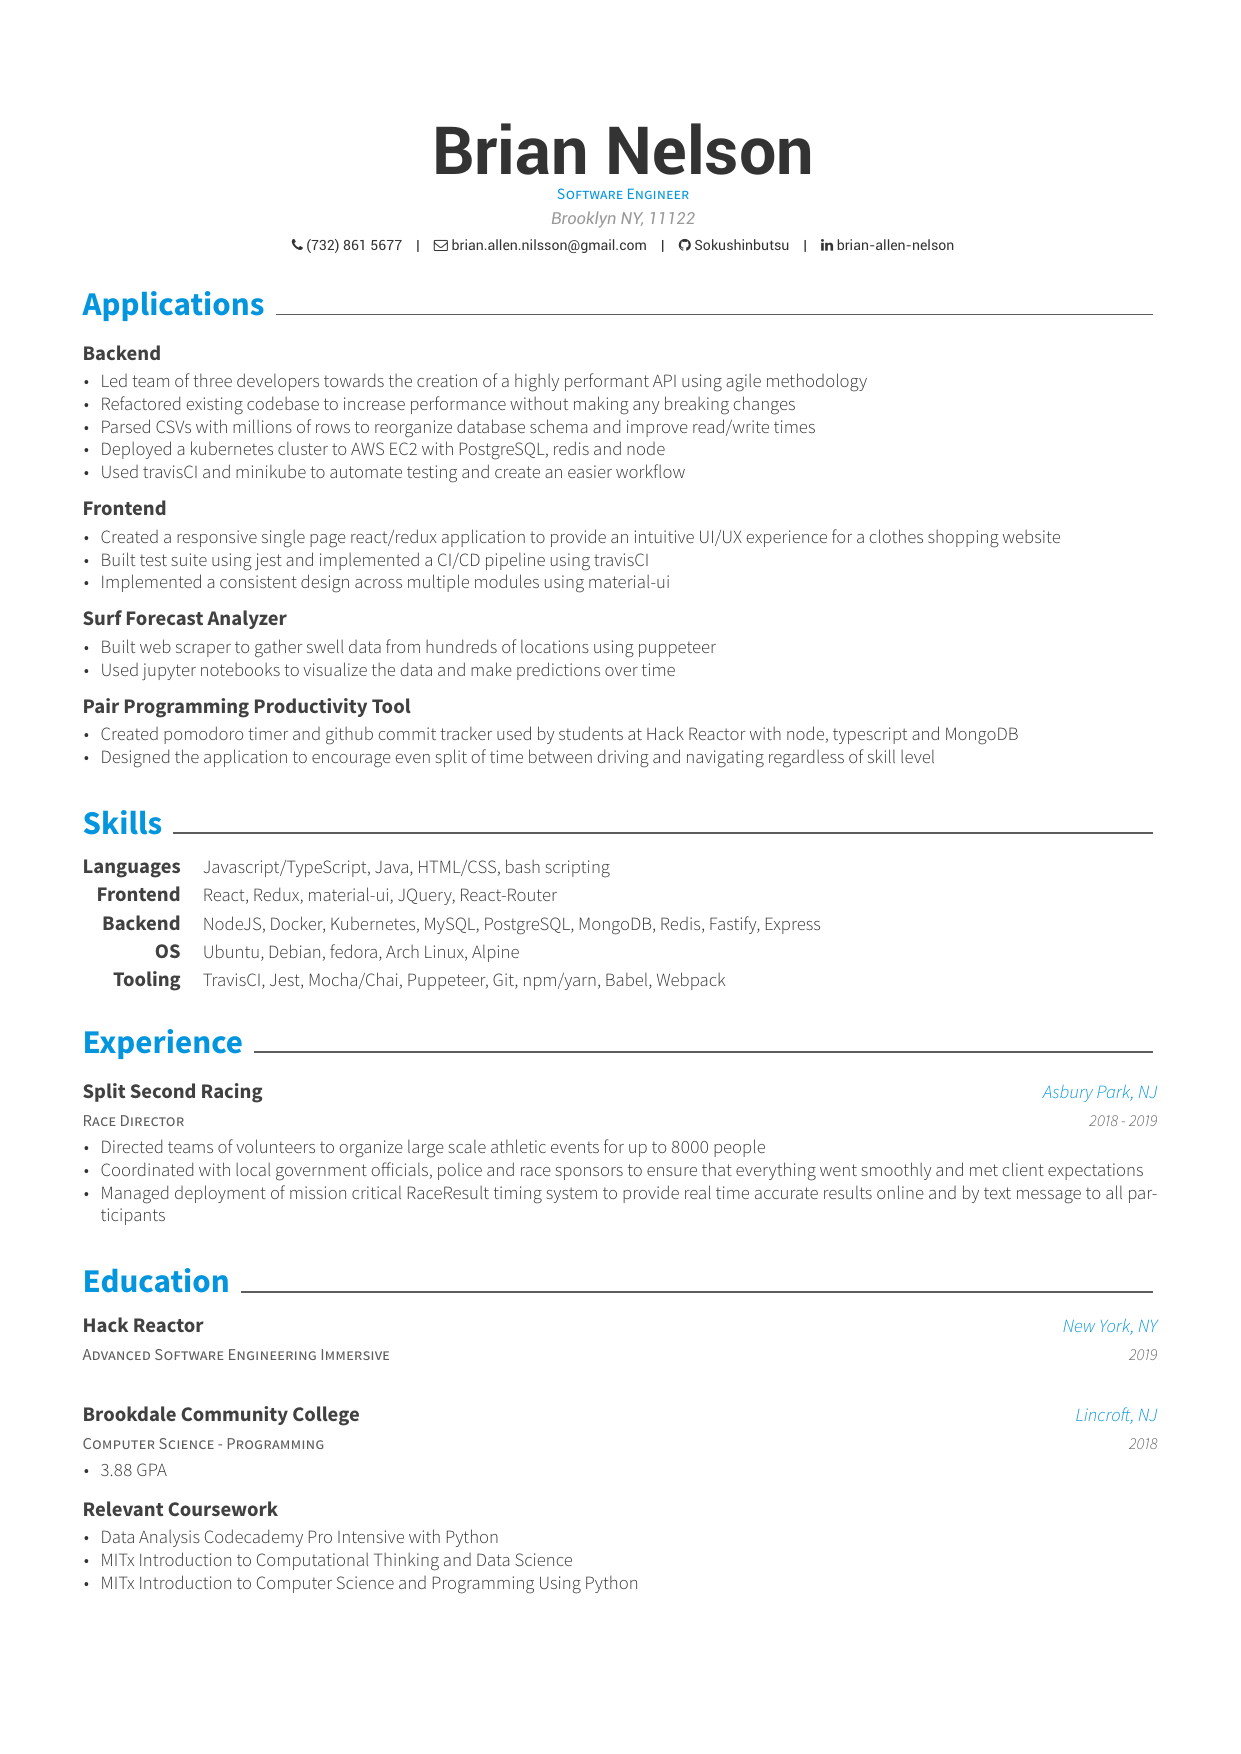
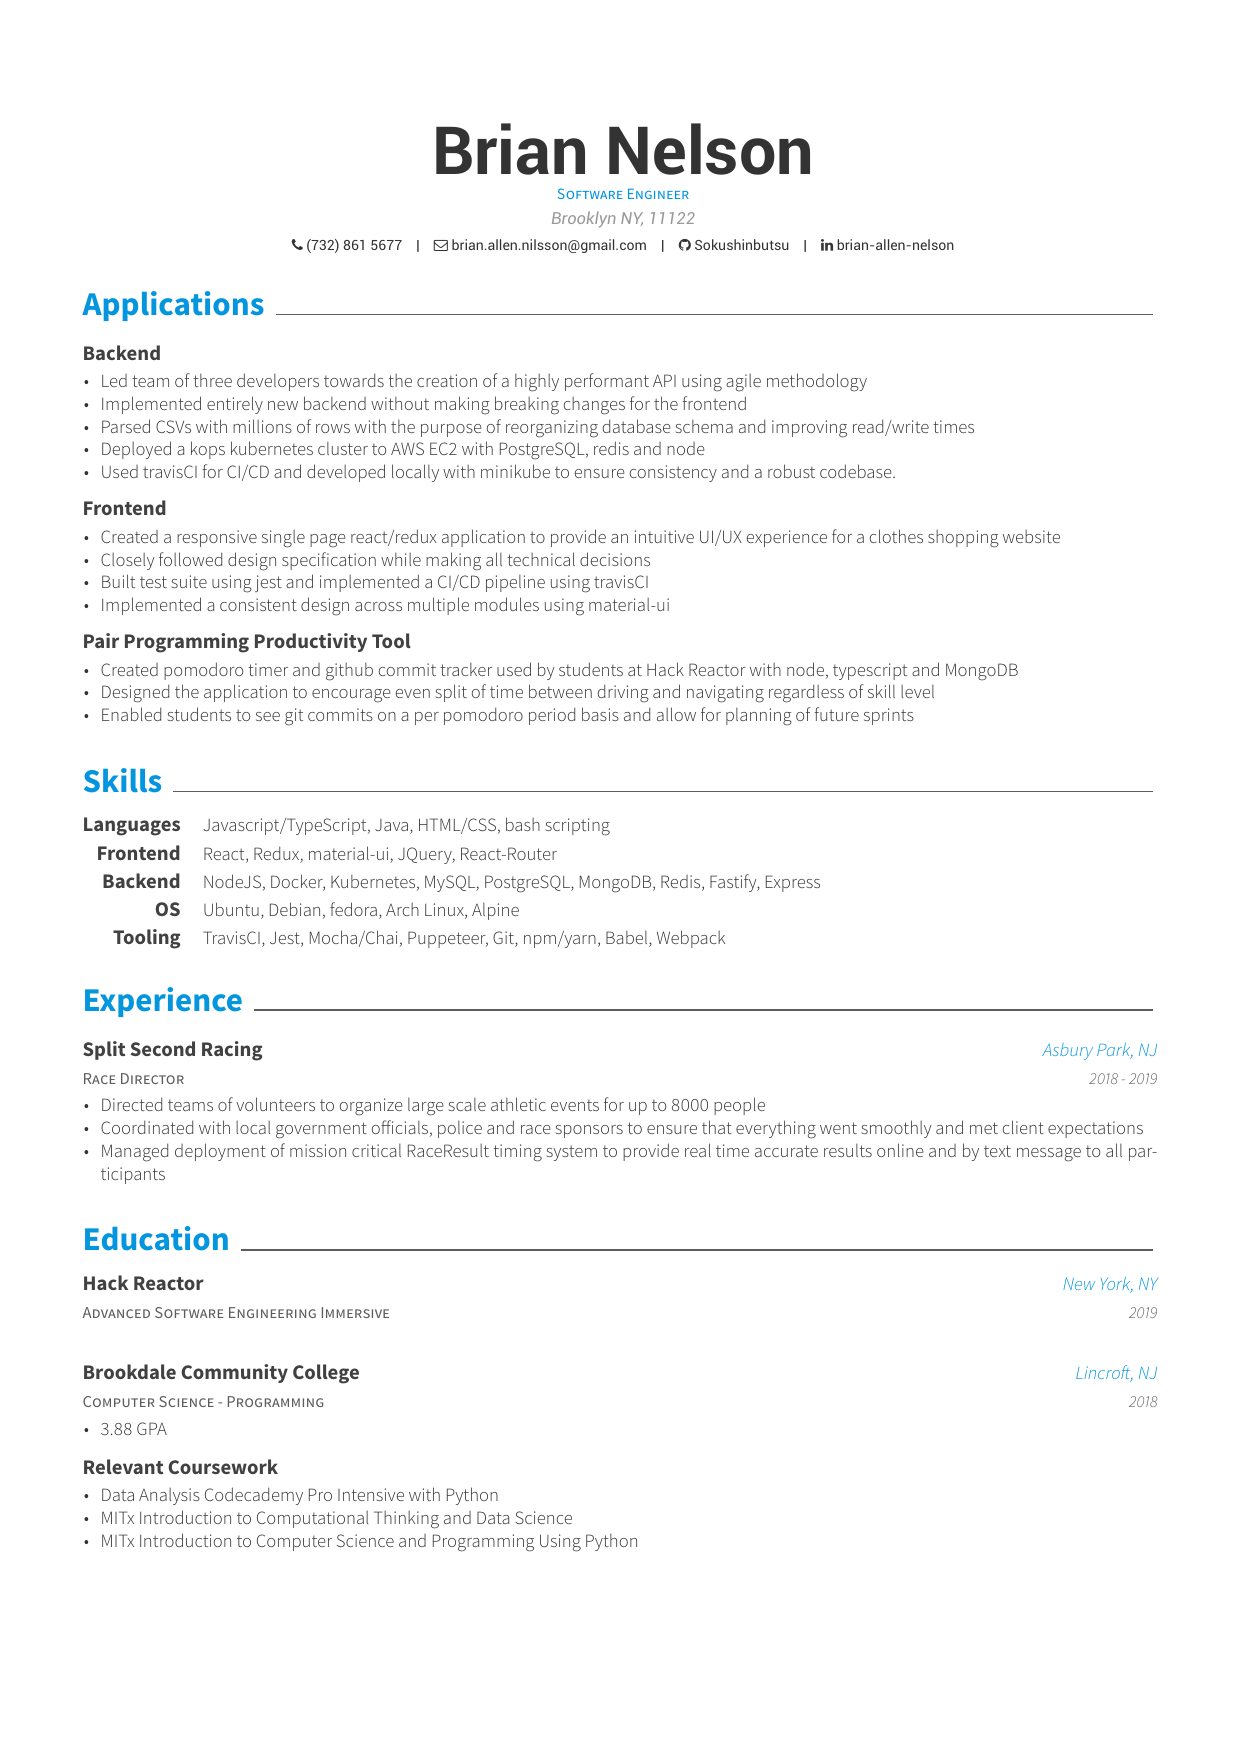
rewrite applications

diff --git a/resume/applications.tex b/resume/applications.tex
@@ -12,7 +12,7 @@
         \item {Implemented entirely new backend without making breaking changes for the frontend}
 		\item {Parsed CSVs with millions of rows with the purpose of reorganizing database schema and improving read/write times}
 		\item {Deployed a kops kubernetes cluster to AWS EC2 with PostgreSQL, redis and node}
-		\item {Used travisCI for CI/CD and developed locally with minikube}
+		\item {Used travisCI for CI/CD and developed locally with minikube to ensure consistency and a robust codebase.}
       \end{cvitems}
     }
   
@@ -24,22 +24,23 @@
     {
       \begin{cvitems} % Description(s) bullet points
 		\item {Created a responsive single page react/redux application to provide an intuitive UI/UX experience for a clothes shopping website}
+		\item {Closely followed design specification while making all technical decisions}
 		\item {Built test suite using jest and implemented a CI/CD pipeline using travisCI}
 		\item {Implemented a consistent design across multiple modules using material-ui}
       \end{cvitems}
     }
 
-  \cventry
-    {} % Empty position
-    {Surf Forecast Analyzer} % Project
-    {} % Empty location
-    {} % Empty date
-    {
-      \begin{cvitems} % Description(s) bullet points
-      	\item {Built web scraper to gather swell data from hundreds of locations using puppeteer}
-		\item {Used jupyter notebooks to visualize the data and make predictions over time}
-      \end{cvitems}
-    }
+  % \cventry
+  %   {} % Empty position
+  %   {Surf Forecast Analyzer} % Project
+  %   {} % Empty location
+  %   {} % Empty date
+  %   {
+  %     \begin{cvitems} % Description(s) bullet points
+  %     	\item {Built web scraper to gather swell data from hundreds of locations using puppeteer}
+	% 	\item {Used jupyter notebooks to visualize the data and make predictions over time}
+  %     \end{cvitems}
+  %   }
     
   \cventry
     {} % Empty position
@@ -49,7 +50,8 @@
     {
       \begin{cvitems} % Description(s) bullet points
       	\item {Created pomodoro timer and github commit tracker used by students at Hack Reactor with node, typescript and MongoDB}
-      	\item {Designed the application to encourage even split of time between driving and navigating regardless of skill level}
+        \item {Designed the application to encourage even split of time between driving and navigating regardless of skill level}
+        \item {Enabled students to see git commits on a per pomodoro period basis and allow for planning of future sprints}
       \end{cvitems}
     }
 \end{cventries}
